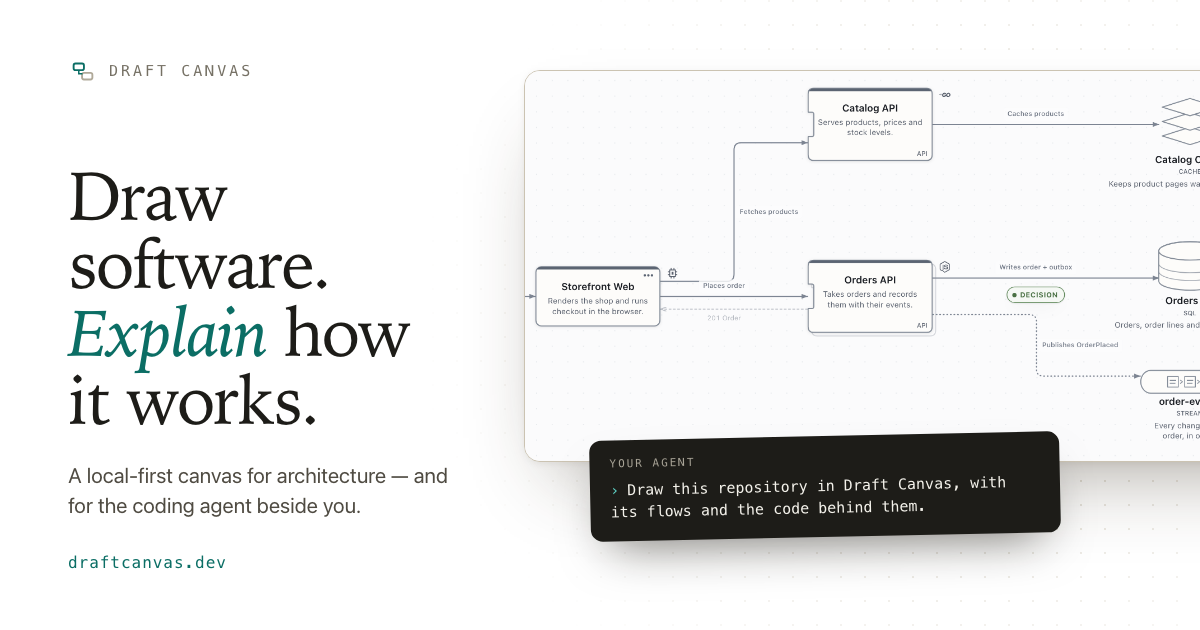
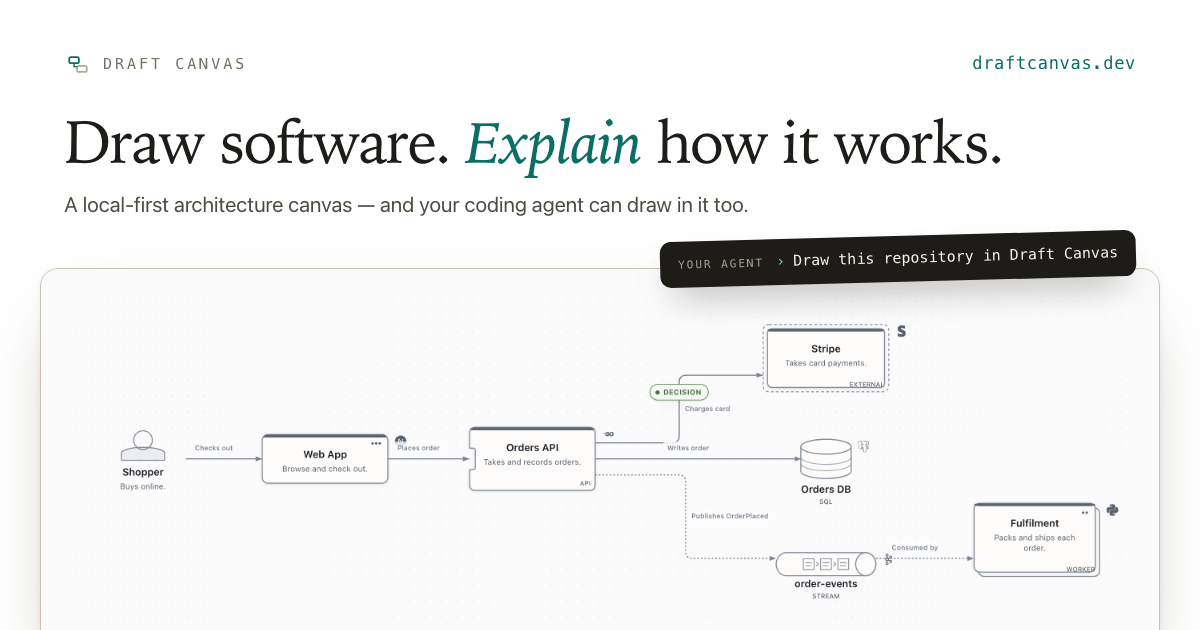
Give the share card a diagram drawn for it
The card cropped a busy release screenshot. It now carries a small checkout architecture composed by the agent pipeline and rendered in the real editor at 2x, technology logos and a decision included, laid across the bottom of the sheet under the headline. e2e/og-diagram.ts re-renders it from www/scripts/og-diagram.json.

diff --git a/e2e/og-diagram.ts b/e2e/og-diagram.ts
@@ -1,0 +1,75 @@
+/**
+ * Renders the diagram on the site's share card (`www/scripts/social-card.mjs`), in the real editor:
+ * `www/scripts/og-diagram.json`, an agent request, composed by the app's own pipeline, imported
+ * through the file picker, fitted, and captured as the canvas alone — no toolbar, no status bar —
+ * at 2x, into `www/scripts/og-diagram.png`. Like `e2e/agent-gallery.ts`, it is not a test.
+ *
+ *   npm run dev -- --port 5393 --strictPort      # a dev server of its own, never 5180
+ *   npx tsx e2e/og-diagram.ts --base http://localhost:5393
+ *   npm --prefix www run social
+ */
+import { readFileSync, writeFileSync } from 'node:fs';
+import { chromium } from '@playwright/test';
+
+const flag = (name: string) => {
+  const i = process.argv.indexOf(`--${name}`);
+  return i === -1 ? undefined : process.argv[i + 1];
+};
+const BASE = flag('base') ?? 'http://localhost:5393';
+const REQUEST = JSON.parse(readFileSync(flag('request') ?? 'www/scripts/og-diagram.json', 'utf8')) as Record<string, unknown>;
+const OUT = flag('out') ?? 'www/scripts/og-diagram.png';
+const WIDTH = Number(flag('width') ?? 1500);
+const HEIGHT = Number(flag('height') ?? 860);
+const PAD = Number(flag('pad') ?? 36);
+
+async function main() {
+  const browser = await chromium.launch();
+  try {
+    const setup = await browser.newPage();
+    await setup.addInitScript('window.__name = (fn) => fn;');
+    await setup.goto(BASE);
+    const composed = await setup.evaluate(async (request) => {
+      // oxlint-disable-next-line typescript/no-explicit-any
+      const load = (path: string) => import(/* @vite-ignore */ path) as Promise<any>;
+      const { compose } = await load('/src/agent/compile.ts');
+      return compose({ requestId: 'og', ...request }, 'd_ogcard000000').text as string;
+    }, REQUEST);
+    await setup.close();
+
+    const context = await browser.newContext({ colorScheme: 'light', viewport: { width: WIDTH, height: HEIGHT }, deviceScaleFactor: 2 });
+    const page = await context.newPage();
+    await page.goto(BASE);
+    await page.setInputFiles('input[type="file"]', { name: 'og.draftcanvas', mimeType: 'application/json', buffer: Buffer.from(composed) });
+    await page.waitForSelector('.dc-editor');
+    await page.waitForSelector('.dc-node');
+    await page.evaluate(() => (document.activeElement as HTMLElement | null)?.blur());
+    await page.keyboard.press('Shift+1');
+    await page.mouse.move(2, HEIGHT - 2);
+    await page.waitForTimeout(900);
+
+    // The drawing's own bounds — shapes, their captions and the connectors' labels — plus a margin.
+    const box = await page.evaluate(() => {
+      const rects = [...document.querySelectorAll('.react-flow__node, .react-flow__edge, .dc-edge-label, [class*="edge-label"]')]
+        .map((element) => element.getBoundingClientRect())
+        .filter((rect) => rect.width > 0 && rect.height > 0);
+      return {
+        left: Math.min(...rects.map((r) => r.left)),
+        top: Math.min(...rects.map((r) => r.top)),
+        right: Math.max(...rects.map((r) => r.right)),
+        bottom: Math.max(...rects.map((r) => r.bottom)),
+      };
+    });
+    const clip = {
+      x: Math.max(0, box.left - PAD),
+      y: Math.max(0, box.top - PAD),
+      width: Math.min(WIDTH, box.right + PAD) - Math.max(0, box.left - PAD),
+      height: Math.min(HEIGHT, box.bottom + PAD) - Math.max(0, box.top - PAD),
+    };
+    writeFileSync(OUT, await page.screenshot({ clip }));
+    process.stdout.write(`og-shot: ${OUT} ${Math.round(clip.width)}x${Math.round(clip.height)} css px\n`);
+  } finally {
+    await browser.close();
+  }
+}
+
+void main();

diff --git a/docs/reference/website.md b/docs/reference/website.md
@@ -87,9 +87,10 @@ reads it on the site instead of in a code repository.
 | --- | --- |
 | `npm --prefix www run art` | The hero's pencil-and-ink drawing, written into `www/index.html` |
 | `npm --prefix www run clips` | The five short demo clips, cut from `docs/media/demo.mp4` with ffmpeg |
-| `npm --prefix www run social` | `og-image.png`, from the hero and the stylesheet, and the Apple touch icon |
+| `npx tsx e2e/og-diagram.ts --base <dev server>` | `www/scripts/og-diagram.png`, the share card's diagram, rendered in the real editor from `og-diagram.json` |
+| `npm --prefix www run social` | `og-image.png`, from that diagram and the stylesheet, and the Apple touch icon |
 
-All three commit their output, so a deploy needs neither ffmpeg nor a browser download. The hero is
+All four commit their output, so a deploy needs neither ffmpeg nor a browser download. The hero is
 seeded, so a re-run draws the same pencil strokes; run `social` after it so the share card matches.
 The reel's one still, `www/public/stills/source-evidence.jpg`, is the 1.14.0 release screenshot
 `docs/media/releases/v1.14.0/source-evidence.png` at 1600×900.
